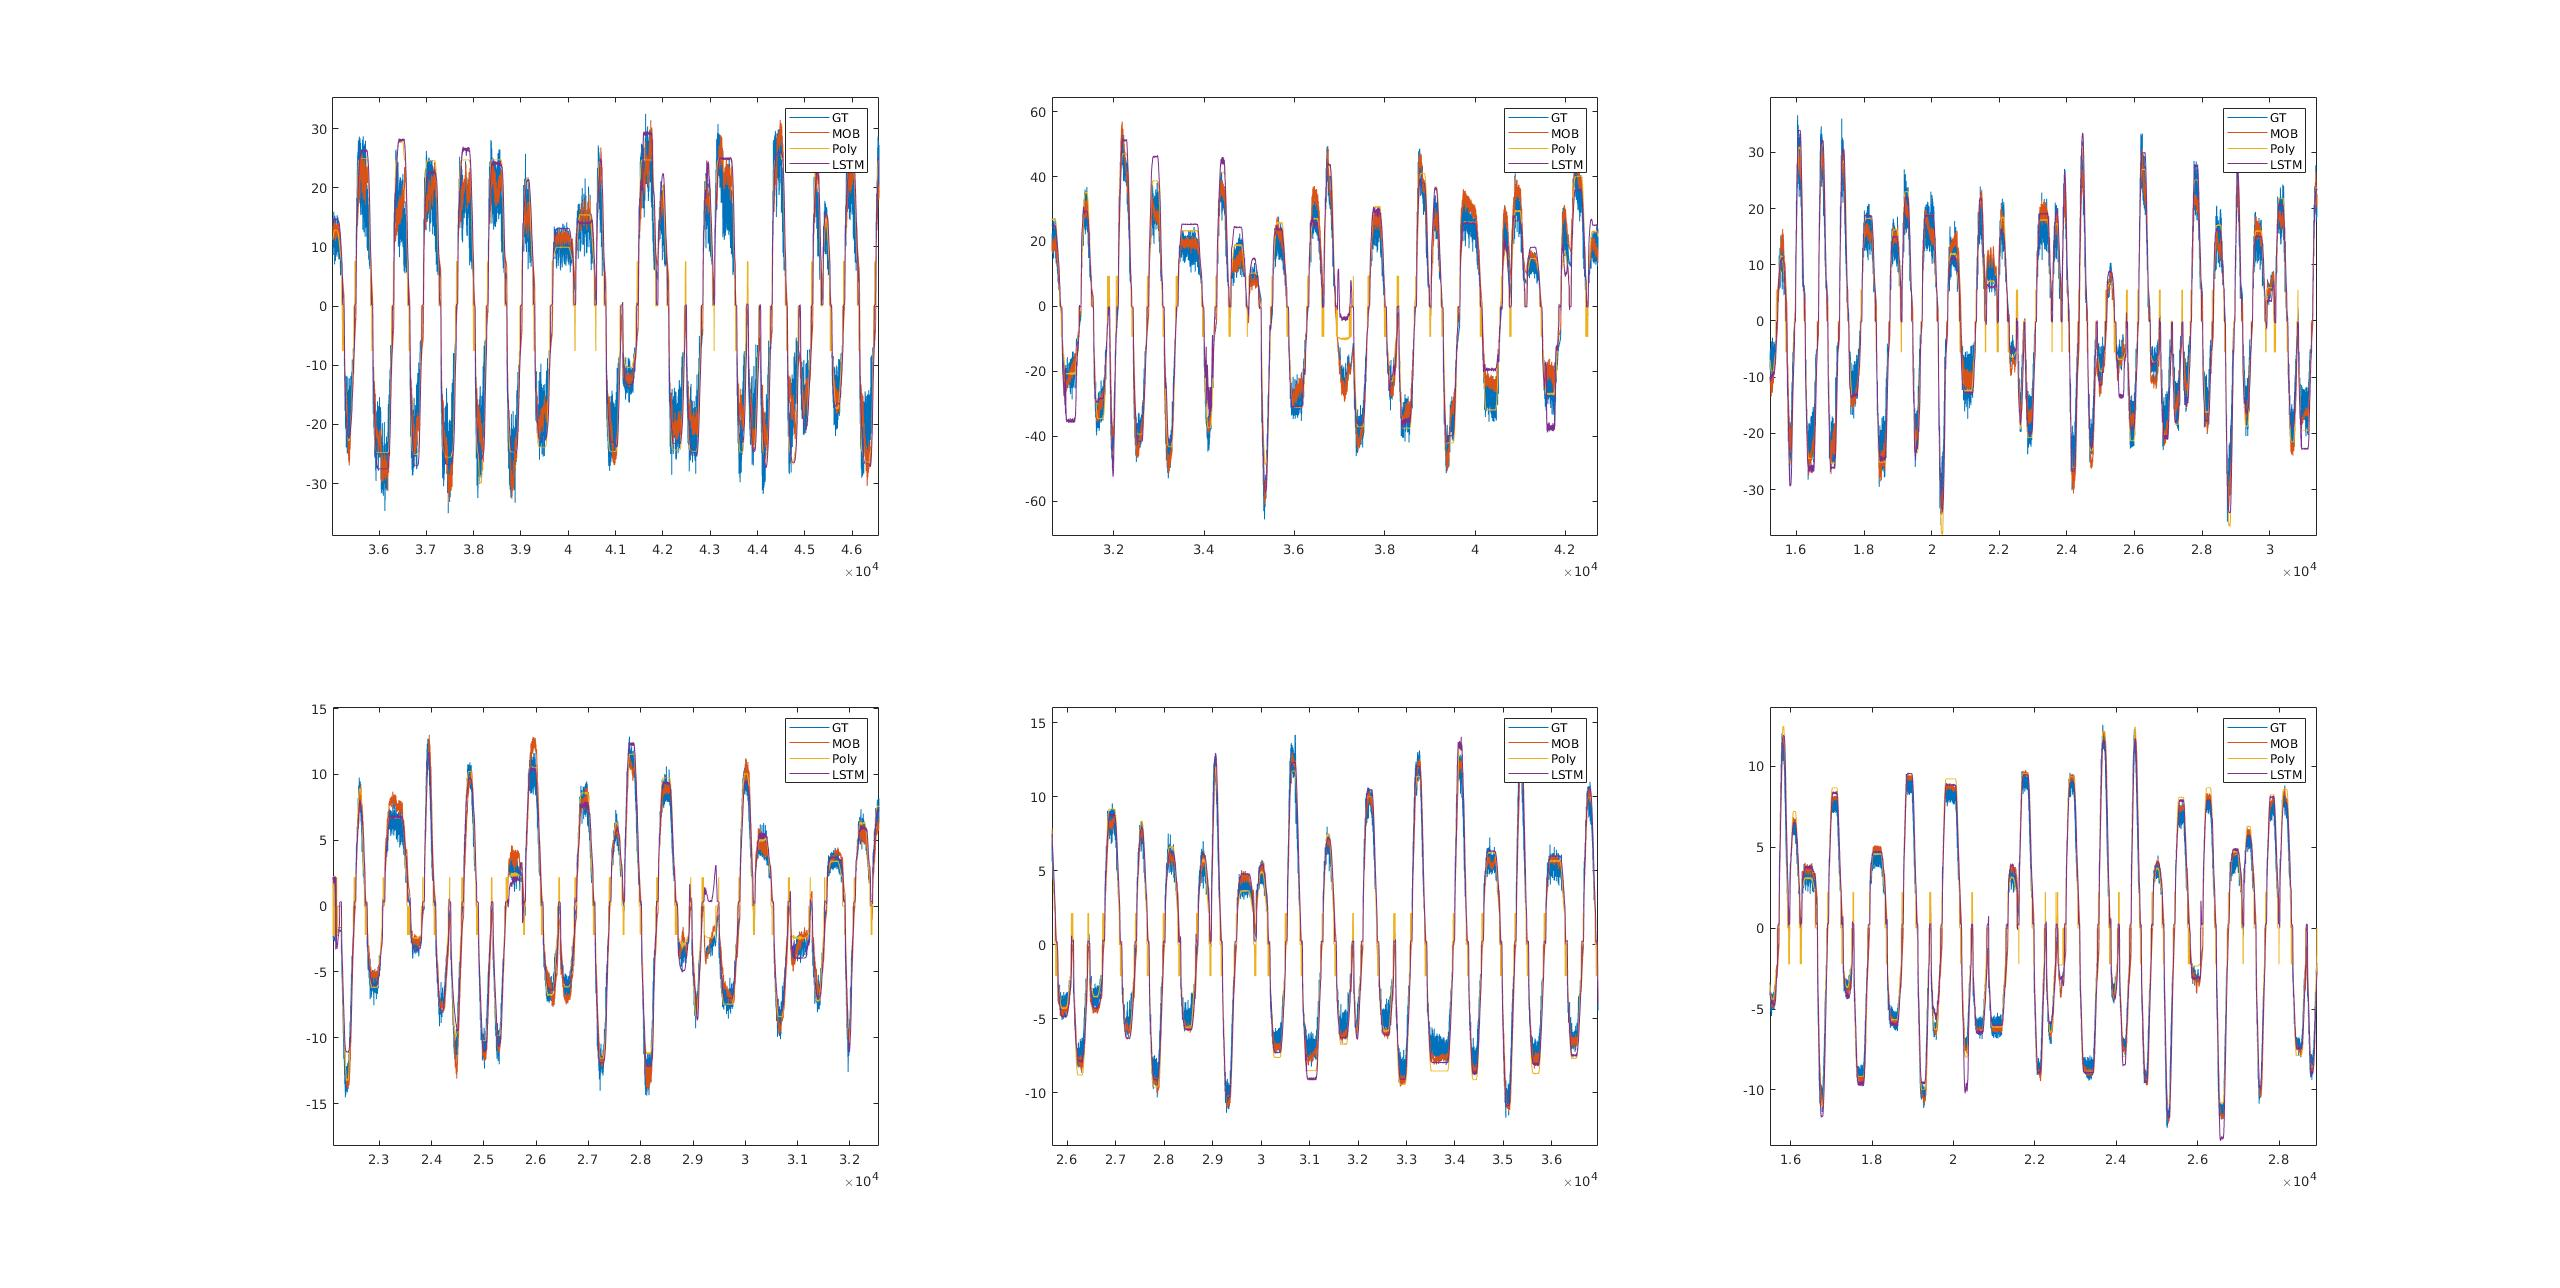
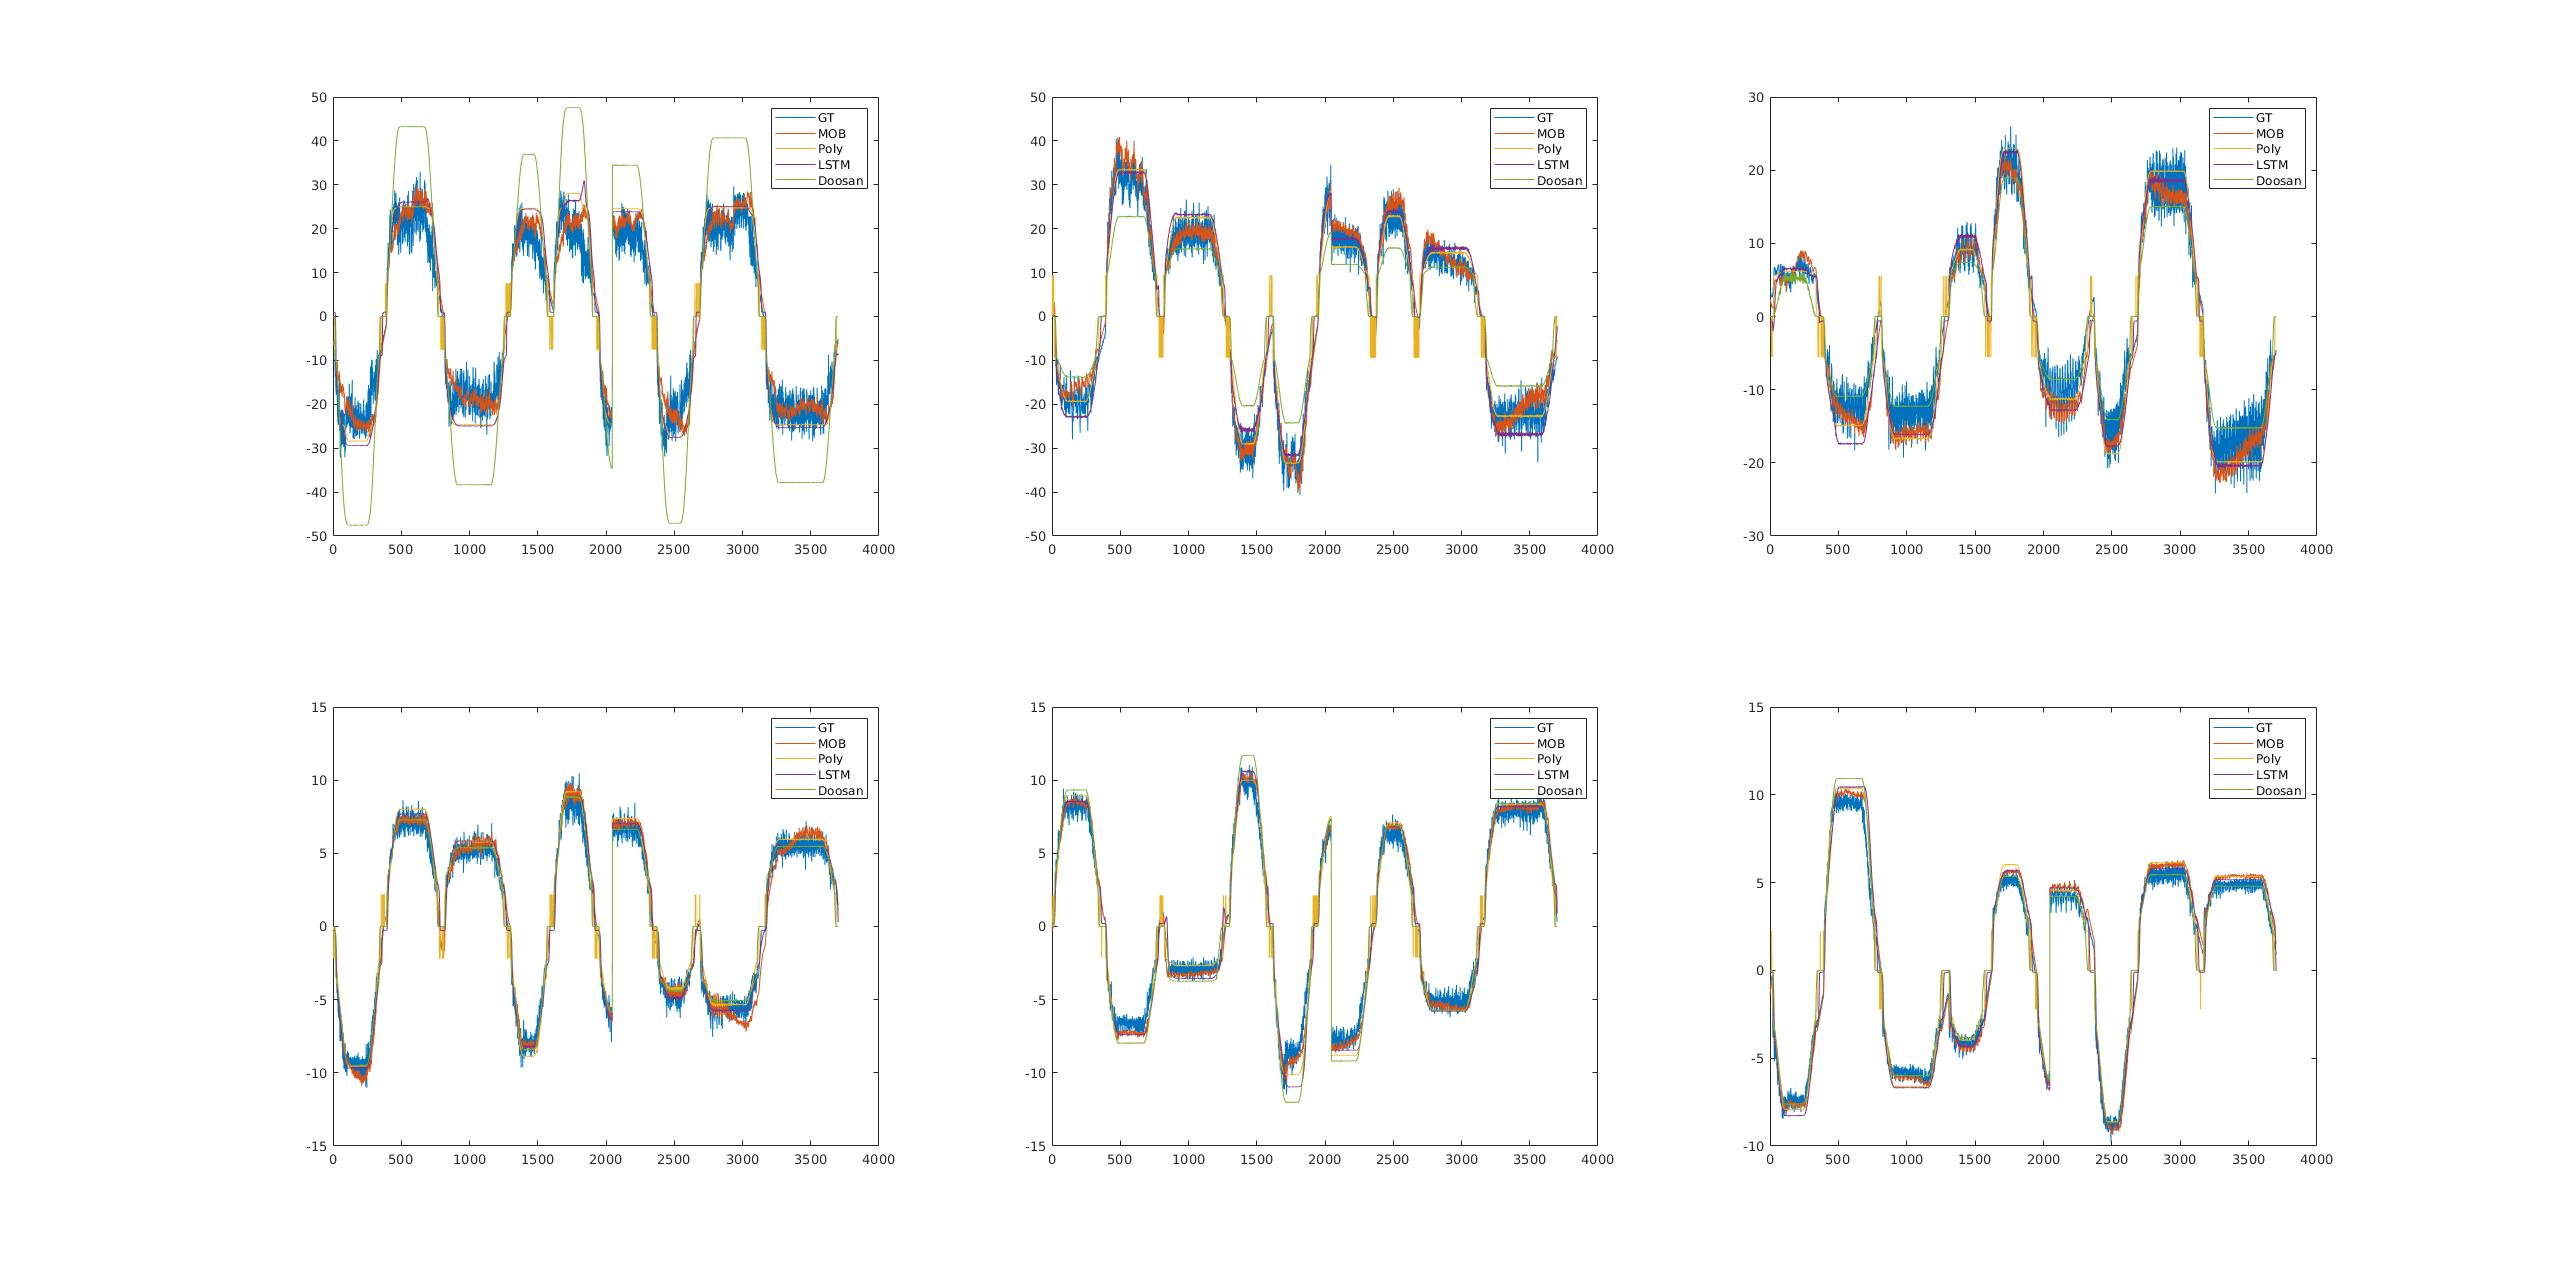
Backup before implementing state initialization method

diff --git a/data/OfflineAnalysis.m b/data/OfflineAnalysis.m
@@ -1,17 +1,15 @@
+clc
 clear all
 
-cd ../../Offline_Experiment/20191122_Test/robot1/0_00kg
-cd collision
-CollisionData = load('DRCL_Data_Resi.txt');
-cd ../free
-FreeData = load('DRCL_Data_Resi.txt');
-cd ../../../../../FrictionRegression/result
+CollisionData = load('OfflineTestingCollisionDataFrictionRaw.csv');
+FreeData = load('OfflineTestingFreeDataFrictionRaw.csv');
+cd ../result
 LSTMCollision = load('offline_testing_result_collision.csv');
 LSTMFree = load('offline_testing_result_free.csv');
 
 dt = 0.001;
 last_t = 0.000;
-threshold = [18.310443191528321  23.698891021728517  13.387418884277345   5.264186576843262   7.253582011413574   4.820243186187744];
+threshold = [30 30 20 20 20 20];
 
 %% Collision
 ResiCollision = CollisionData(:,86:91);
@@ -24,11 +22,15 @@ detection_time_DOB = [];
 collision_status = false;
 DOB_detection = false;
 collision_fail_cnt_DOB = 0;
+
 t= last_t:dt:last_t+(size(LSTMCollision,1)-1)*dt;
 last_t = last_t + size(LSTMCollision,1)*dt;
 
 Switch_data = CollisionData(:,65);
 DOB_Collision = ResiCollision(1:size(LSTMCollision,1),:) - LSTMCollision;
+
+continueous_col = 0;
+continueous_col_judge = 0;
 
 for i=1:size(LSTMCollision,1)
     if (Switch_data(i) == 1 && collision_pre ==0)
@@ -39,9 +41,13 @@ for i=1:size(LSTMCollision,1)
     end
     
     if (collision_status == true && DOB_detection == false)
-        if(abs(DOB_Collision(i,1))>threshold(1) || DOB_Collision(DOB_Free(i,2))>threshold(2) ||abs(DOB_Collision(i,3))>threshold(3) ||abs(DOB_Collision(i,4))>threshold(4) ||abs(DOB_Collision(i,5))>threshold(5) ||abs(DOB_Collision(i,6))>threshold(6))
-            DOB_detection = true;
-            detection_time_DOB(collision_cnt) = i*dt - collision_time;
+        if(abs(DOB_Collision(i,1))>threshold(1) || abs(DOB_Collision(i,2))>threshold(2) ||abs(DOB_Collision(i,3))>threshold(3) ||abs(DOB_Collision(i,4))>threshold(4) ||abs(DOB_Collision(i,5))>threshold(5) ||abs(DOB_Collision(i,6))>threshold(6))
+            continueous_col = continueous_col+1;
+            if continueous_col > continueous_col_judge
+                continueous_col = 0;
+                DOB_detection = true;
+                detection_time_DOB(collision_cnt) = i*dt - collision_time;
+            end
         end
     end
     
@@ -63,6 +69,13 @@ disp(sum(detection_time_DOB)/(collision_cnt-collision_fail_cnt_DOB))
 disp("Detection Failure DOB:")
 disp(collision_fail_cnt_DOB)
 
+f1 = figure;
+for i =1:6
+    subplot(2,3,i)
+    plot(ResiCollision(:,i))
+    hold on
+    plot(LSTMCollision(:,i))
+end
 %% Free
 DOB_FP = 0;
 DOB_FP_time = [];
@@ -76,10 +89,16 @@ t= last_t:dt:last_t+(size(LSTMFree,1)-1)*dt;
 last_t = last_t + size(LSTMFree,1)*dt;
 Switch_data = FreeData(:,65);
 
+continueous_col = 0;
+
 for i=1:size(LSTMFree,1)
     if (Switch_data(i) == 0 && (abs(DOB_Free(i,1))>threshold(1) || abs(DOB_Free(i,2))>threshold(2) ||abs(DOB_Free(i,3))>threshold(3) ||abs(DOB_Free(i,4))>threshold(4) ||abs(DOB_Free(i,5))>threshold(5) ||abs(DOB_Free(i,6))>threshold(6)))
-        DOB_FP = DOB_FP +1;
-        DOB_FP_time(DOB_FP) = t(i);
+         continueous_col = continueous_col+1;
+        if continueous_col > continueous_col_judge
+            continueous_col = 0;
+            DOB_FP = DOB_FP +1;
+            DOB_FP_time(DOB_FP) = t(i);
+        end
     end
 end
 
@@ -94,4 +113,12 @@ for i=2:DOB_FP
     if( del_time> 0.5)
         disp(del_time)
     end
+end
+
+f2 = figure;
+for i =1:6
+    subplot(2,3,i)
+    plot(ResiFree(:,i))
+    hold on
+    plot(LSTMFree(:,i))
 end

diff --git a/data/DataCreate.m b/data/DataCreate.m
@@ -116,8 +116,10 @@ for k=num_time_step:size(Free_Aggregate_Data,1)
     % Input
    for time_step=1:num_time_step
         for joint_data=1:6
-            FreeProcessData(FreeProcessDataIdx,num_input*(num_time_step-time_step)+joint_data) = 2*(Free_Aggregate_Data(k-time_step+1,13+joint_data) - MinTrainingData(1,13+joint_data)) / (MaxTrainingData(1,13+joint_data) - MinTrainingData(1,13+joint_data)) -1; % qdot
-            FreeProcessData(FreeProcessDataIdx,num_input*(num_time_step-time_step)+6+joint_data) = 2*((Free_Aggregate_Data(k-time_step+1,7+joint_data)-Free_Aggregate_Data(k-time_step+1,37+joint_data)) - Min20thEncoderError(1,joint_data)) / (Max20thEncoderError(1,joint_data) - Min20thEncoderError(1,joint_data)) -1; % encoder difference
+            FreeProcessData(FreeProcessDataIdx,num_input*(num_time_step-time_step)+joint_data) = 2*(Free_Aggregate_Data(k-time_step+1,13+joint_data) - MinTrainingData(1,13+joint_data)) / (MaxTrainingData(1,13+joint_data) - MinTrainingData(1,13+joint_data)) -1; % theta_dot
+            %FreeProcessData(FreeProcessDataIdx,num_input*(num_time_step-time_step)+6+joint_data) = 2*((Free_Aggregate_Data(k-time_step+1,7+joint_data)-Free_Aggregate_Data(k-time_step+1,37+joint_data)) - Min20thEncoderError(1,joint_data)) / (Max20thEncoderError(1,joint_data) - Min20thEncoderError(1,joint_data)) -1; % encoder difference
+            FreeProcessData(FreeProcessDataIdx,num_input*(num_time_step-time_step)+6+joint_data) = 2*(Free_Aggregate_Data(k-time_step+1,7+joint_data) - MinTrainingData(1,7+joint_data)) / (MaxTrainingData(1,7+joint_data) - MinTrainingData(1,7+joint_data)) -1; % theta
+            %FreeProcessData(FreeProcessDataIdx,num_input*(num_time_step-time_step)+12+joint_data) = 2*(Free_Aggregate_Data(k-time_step+1,1+joint_data) - MinTrainingData(1,1+joint_data)) / (MaxTrainingData(1,1+joint_data) - MinTrainingData(1,1+joint_data)) -1; % motor torque
         end
    end
    

diff --git a/data/Analysis.m b/data/Analysis.m
@@ -2,6 +2,9 @@ clc
 clear all;
 format long
 
+%%
+plot_start = 66000;
+plot_end = 69700;
 %% Doosan Model
 TestingRaw = load('TestingDataRaw.csv');
 FrictionModelDoosan = TestingRaw(:,50:55);
@@ -10,6 +13,7 @@ FrictionModelDoosan = TestingRaw(:,50:55);
 Motor_Torque = TestingRaw(:,2:7);
 JTS = TestingRaw(:,68:73);
 VelMFree = TestingRaw(:,14:19);
+EncoDiff = TestingRaw(:,8:13)-TestingRaw(:,38:43);
 
 %% MOB
 ResidualEstimate = TestingRaw(:,86:91);
@@ -64,14 +68,14 @@ for j= 1:6
     plot(abs(VelMFree(1:LSTMDataNum,j)), abs(ResidualEstimate(1:LSTMDataNum,j)))
     hold on
     plot(abs(VelMFree(1:LSTMDataNum,j)), abs(FrictionModelLSTM(:,j)))
-    plot(qdot,fm(:,j))
+    plot(qdot(:),fm(:,j))
     legend('MOB','LSTM','Poly')
 end
 
 %% Plot Error histogram
-Reisudal = ResidualEstimate(1:LSTMDataNum,:);
-PolyErr = Reisudal(1:LSTMDataNum,:)-FrictionModelPoly(1:LSTMDataNum,:);
-LSTMErr = Reisudal(1:LSTMDataNum,:)-FrictionModelLSTM;
+Residual = ResidualEstimate(1:LSTMDataNum,:);
+PolyErr = Residual(1:LSTMDataNum,:)-FrictionModelPoly(1:LSTMDataNum,:);
+LSTMErr = Residual(1:LSTMDataNum,:)-FrictionModelLSTM;
 f3 = figure;
 
 num_bin = 100;
@@ -99,3 +103,15 @@ mean(abs(LSTMErr),1)
 disp('LSTM Threshold: ')
 [threshold, idx] = max(abs(LSTMErr),[],1)
 
+%% Plot Trajectory
+f4 = figure;
+for j=1:6
+    subplot(2,3,j)
+    plot(Motor_Torque(plot_start:plot_end,j) - JTS(plot_start:plot_end,j))
+    hold on
+    plot(ResidualEstimate(plot_start:plot_end,j))
+    plot(FrictionModelPoly(plot_start:plot_end,j))
+    plot(FrictionModelLSTM(plot_start:plot_end,j))
+    plot(FrictionModelDoosan(plot_start:plot_end,j))
+    legend('GT','MOB','Poly','LSTM','Doosan')
+end

diff --git a/lstm/lstm.py b/lstm/lstm.py
@@ -120,29 +120,21 @@ class FrictionLSTM(nn.Module):
         
         if offline_test_free_loader is not None:
             predictions = []
-            test_losses = []
 
             for inputs, outputs in offline_test_free_loader:
                 inputs = inputs.to(self._device)
-                outputs = outputs.to(self._device)
                 preds = self.forward(inputs)
-                test_loss = nn.L1Loss(reduction='sum')(preds, outputs) / inputs.shape[0]
                 predictions.extend(self._to_numpy(preds))
-                test_losses.append(self._to_numpy(test_loss))
 
             np.savetxt("./result/offline_testing_result_free.csv", predictions, delimiter=",")
 
         if offline_test_collision_loader is not None:
             predictions = []
-            test_losses = []
 
             for inputs, outputs in offline_test_collision_loader:
                 inputs = inputs.to(self._device)
-                outputs = outputs.to(self._device)
                 preds = self.forward(inputs)
-                test_loss = nn.L1Loss(reduction='sum')(preds, outputs) / inputs.shape[0]
                 predictions.extend(self._to_numpy(preds))
-                test_losses.append(self._to_numpy(test_loss))
 
             np.savetxt("./result/offline_testing_result_collision.csv", predictions, delimiter=",")
 

diff --git a/main.py b/main.py
@@ -123,7 +123,7 @@ if __name__ == '__main__':
             offline_test_free_data,
             batch_size=config.getint("training", "batch_size"),
             shuffle=False,
-            drop_last=True,
+            drop_last=False,
             num_workers=8,
             pin_memory=False)
 
@@ -134,7 +134,7 @@ if __name__ == '__main__':
             offline_test_collision_data,
             batch_size=config.getint("training", "batch_size"),
             shuffle=False,
-            drop_last=True,
+            drop_last=False,
             num_workers=8,
             pin_memory=False)
 
